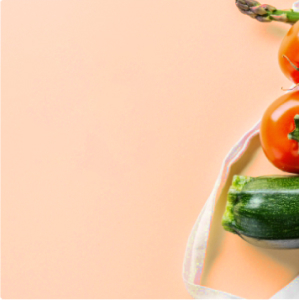
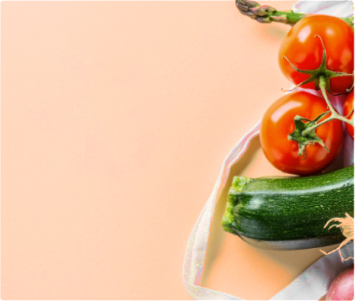
added adaptiv section categories

diff --git a/app/scss/_categories.scss b/app/scss/_categories.scss
@@ -6,6 +6,15 @@
     min-height: 300px;
     grid-template-columns: repeat(4, 1fr);
     grid-gap: 30px;
+
+    @include r(992) {
+      grid-template-columns: repeat(3, 1fr);
+      grid-gap: 15px;
+    }
+
+    @include r(790) {
+      grid-template-columns: repeat(1, 1fr);
+    }
   }
 
   &__item {
@@ -20,6 +29,11 @@
       line-height: 1;
       letter-spacing: 0.1em;
       margin: 76px 0 18px 32px;
+
+      @include r(992) {
+        margin-left: 15px;
+        margin-bottom: 17px;
+      }
     }
 
     &-title {
@@ -29,6 +43,14 @@
       line-height: 1.4;
       max-width: 160px;
       margin: 0 0 7px 32px;
+
+      @include r(992) {
+        font-size: 24px;
+        margin-left: 15px;
+        max-width: 155px;
+        width: 100%;
+        margin-bottom: 75px;
+      }
     }
 
     &-link {
@@ -38,19 +60,47 @@
       padding-bottom: 4px;
       margin-left: 32px;
       border-bottom: 2px solid $dark-500;
+
+      @include r(992) {
+        margin-left: 15px;
+      }
+
+      @include r(790) {
+        display: inline-block;
+        margin-bottom: 30px;
+        padding-bottom: 5px;
+      }
     }
 
     &:nth-child(1) {
       grid-column: span 2;
       color: $white;
+
+      @include r(992) {
+        grid-column: span 1;
+      }
     }
 
     &:first-child h3 {
       max-width: 346px;
+
+      @include r(992) {
+        max-width: 240px;
+        width: 100%;
+      }
     }
 
     &:first-child a {
       border-color: $white;
     }
+
+    @include r(992) {
+      border-radius: 6px;
+      background-position-x: 18%;
+    }
+  }
+
+  @include r(576) {
+    padding-bottom: 48px;
   }
 }

diff --git a/app/scss/_top-products.scss b/app/scss/_top-products.scss
@@ -201,6 +201,10 @@
       padding: 11px 24px;
     }
   }
+
+  @include r(992) {
+    padding-bottom: 47px;
+  }
 }
 
 .badges {
